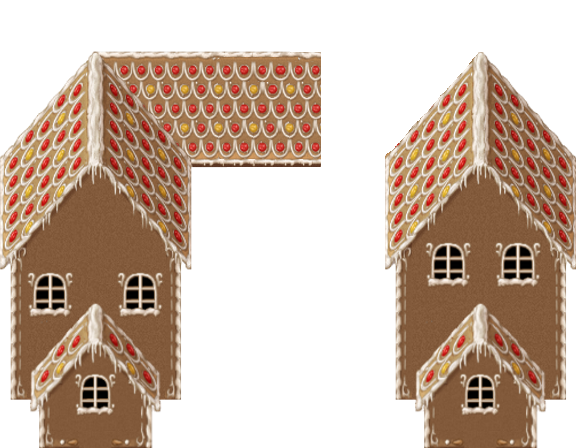
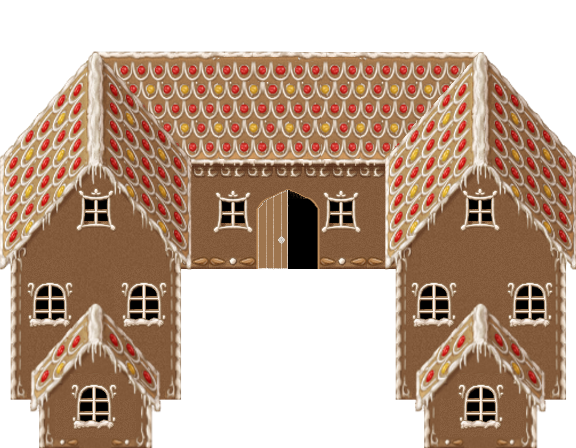
CandyMap2 Update
Layer tiles implemented
Version 1 of Candy Map 2

diff --git a/Space Pirates Shoedown/core/assets/tiledassets/CandyLand/Resources/gingerBreadMansion2.tsx b/Space Pirates Shoedown/core/assets/tiledassets/CandyLand/Resources/gingerBreadMansion2.tsx
@@ -1,0 +1,4 @@
+<?xml version="1.0" encoding="UTF-8"?>
+<tileset version="1.2" tiledversion="1.2.2" name="gingerBreadMansion2" tilewidth="32" tileheight="32" tilecount="252" columns="18">
+ <image source="gingerBreadMansion2.png" width="576" height="448"/>
+</tileset>

diff --git a/Space Pirates Shoedown/core/assets/tiledassets/CandyLand/Resources/blockedCandyTree1.tsx b/Space Pirates Shoedown/core/assets/tiledassets/CandyLand/Resources/blockedCandyTree1.tsx
@@ -1,0 +1,4 @@
+<?xml version="1.0" encoding="UTF-8"?>
+<tileset version="1.2" tiledversion="1.2.2" name="blockedCandyTree1" tilewidth="32" tileheight="32" tilecount="8" columns="2">
+ <image source="blockedCandyTree1.png" width="64" height="128"/>
+</tileset>

diff --git a/Space Pirates Shoedown/core/assets/tiledassets/CandyLand/Resources/blockedCandyTree2.tsx b/Space Pirates Shoedown/core/assets/tiledassets/CandyLand/Resources/blockedCandyTree2.tsx
@@ -1,0 +1,4 @@
+<?xml version="1.0" encoding="UTF-8"?>
+<tileset version="1.2" tiledversion="1.2.2" name="blockedCandyTree2" tilewidth="32" tileheight="32" tilecount="8" columns="2">
+ <image source="blockedCandyTree2.png" width="64" height="128"/>
+</tileset>

diff --git a/Space Pirates Shoedown/core/assets/tiledassets/CandyLand/Resources/candyPathv2.tsx b/Space Pirates Shoedown/core/assets/tiledassets/CandyLand/Resources/candyPathv2.tsx
@@ -1,0 +1,4 @@
+<?xml version="1.0" encoding="UTF-8"?>
+<tileset version="1.2" tiledversion="1.2.2" name="candyPathv2" tilewidth="32" tileheight="32" tilecount="3" columns="3">
+ <image source="candyPathv2.png" width="96" height="32"/>
+</tileset>
